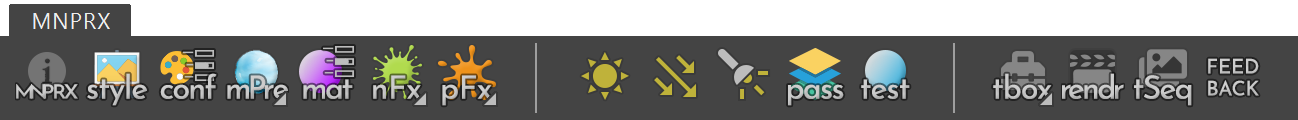
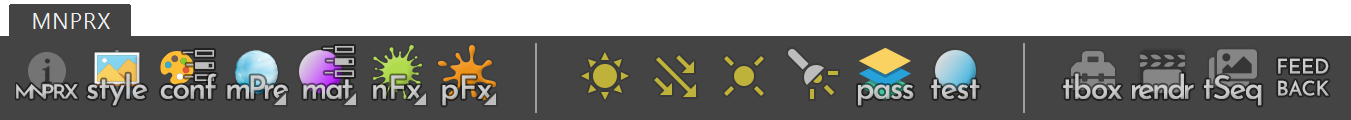
Updating Docs with new features

Changed region(s): [[0.4314, 0.4, 0.9861, 0.875], [0.0, 0.35, 0.4006, 0.875], [0.0, 0.05, 0.1233, 0.3]]

diff --git a/_mnprdocs/material-presets.md b/_mnprdocs/material-presets.md
@@ -16,14 +16,14 @@ _Material presets_ allow artists to easily create and load stylized materials wi
 	<figcaption>The Material presets window will look similar to this, depending on which presets you have available.</figcaption>
 </figure>
 
-A material preset contains all the available attributes found in the _[mnpr_uber](../uber)_, _[mnpr_cutout](/projects/cutout)_, or the _[mnpr_geoproxy](../proxy)_ materials, together with a small thumbnail of the object assigned to it.
+A material preset contains all the available attributes found in the _[mnpr_uber](../uber)_, _[mnpr_cutout](/projects/cutout#cutout-material)_, or the _[mnpr_geoproxy](../proxy)_ materials, together with a small thumbnail of the object assigned to it.
 
 
 ## Creating presets
 You can save as many presets as you want and these can be created at the top of the _Material presets_ window.
 1. Name the current preset as desired in the highlighted text field
-1. Click on the `Save` button on the right
-1. A new preset will appear in the list with all attributes found in the _[mnpr_uber](../uber)_, _[mnpr_cutout](/projects/cutout)_, or the _[mnpr_geoproxy](../proxy)_ materials.
+1. Press `Enter` or click on the `Save` button on the right
+1. A new preset will appear in the list with all attributes found in the _[mnpr_uber](../uber)_, _[mnpr_cutout](/projects/cutout#cutout-material)_, or the _[mnpr_geoproxy](../proxy)_ materials.
 
 When you save a preset with the same name as an existing one, the previously existing preset will be overwritten.
 {: .notice--warning}
@@ -33,11 +33,14 @@ When you save a preset with the same name as an existing one, the previously exi
 Presets can be loaded at any time.
 1. Select the objects which you would like assign the material to
 1. Select the preset that you would like to load
-1. Click on the `Load` button at the bottom left
+1. Double click on the preset icon or click on the `Load` button at the bottom left
 
-Use the `Filter presets` field to filter material presets by name, and the drop-down on the right to filter by material type: `Uber`, `Cutout`, or `All` (no filter). By default, only materials corresponding to the current style are shown. 
+Be aware that loading the preset will load the material attributes on all objects that share the same material that the tool is replacing. To avoid this behavior, check the `Create new material` option within the loading options.
+{: .notice--warning}
 
-The loading options give you more refined control over the loading process. These comprise the following:
+{% include aio-hint.html %} Use the **Filter presets** field to filter material presets by name, and the drop-down on the right to filter by material type: `Uber`, `Cutout`, or `All` (no filter). By default, only materials corresponding to the current style are shown.
+
+Above the _Filter presets_ section, the loading options give you more refined control over the loading process. These comprise the following:
 
 * **Create new material** - will force the creation of a new material, no matter what previous material the object had. By default, if the selected object already has an MNPRX material, the existing material will be modified with the attributes of the preset.
 * **Load textures** - this will load the textures of the selected preset. If you want to keep the current textures, but wish to still import the other material attributes of the preset, uncheck this box.

diff --git a/_mnprdocs/shelf.md b/_mnprdocs/shelf.md
@@ -21,17 +21,17 @@ The art-direction tools can be found in the left side of the shelf, ordered from
 1. **style** - opens the _Stylization Presets_ to load/save predefined styles and their parameters [[docs](../style-presets)].
 1. **conf** - selects the configuration node to change each style attribute [[docs](../config)].
 1. **mPre** - opens the _Material Presets_ to load/save predefined MNPRX materials and their parameters [[docs](../material-presets)].  
-{% include aio-new.html %} `Right click -> Update ShaderFX materials` will automatically update all _ShaderFX_ materials to the newest version.
+`Right click -> Update ShaderFX materials` will automatically update all _ShaderFX_ materials to the newest version.
 1. **mat** - selects the material of currently selected objects e.g., the [_mnpr_uber_](../uber) or [_mnpr_geoproxy_](../proxy) materials.  
-{% include aio-new.html %} `Double click` refreshes the _Attribute Editor_ of the material, forcing the _ShaderFX_ framework to show all attributes.  
-{% include aio-new.html %} `Right click -> Select all objects with material` will select all objects that share the same material.
+`Double click` refreshes the _Attribute Editor_ of the material, forcing the _ShaderFX_ framework to show all attributes.  
+`Right click -> Select all objects with material` will select all objects that share the same material.
 1. **nFx** - opens the _NoiseFX_ window that lets you control effects procedurally on MNPR materials [[docs](../noiseFX)].
 1. **pFx** - opens the _PaintFX_ window that lets you paint each effect directly on your 3D models [[docs](../paintFX)].
 
 
 ## Lighting/Testing
 The lighting and testing tools allow to easily create the supported lights within MNPRX and to troubleshoot if things are not looking quite right.
-1. **Supported lights** - shelf icons for the three different supported lights: ambient, directional and spot light.
+1. {% include aio-new.html %} **Supported lights** - shelf icons for the four different supported lights: ambient, directional, point (no shadow maps) and spot light.
 1. **pass** - opens the _Operations breakdown_ window, which lets you toggle on/off each stylization pass and troubleshoot the inner workings of the stylization itself [[docs](../op-breakdown)].
 1. **test** - creates a simple default test scene with default lighting.
 
@@ -40,6 +40,6 @@ The lighting and testing tools allow to easily create the supported lights withi
 1. **tbox** - opens the _MNPRX Toolbox_ window, containing handy tools to work with MNPRX in production [[docs](../toolbox)].
 1. **rendr** - opens up the viewport renderer, which quickly allows to save screenshots or playblasts [[docs](../rendering#rendr)].
 1. **tSeq** - opens up the target sequence renderer, which allows to render all different passes for production [[docs](../rendering#tSeq)].
-1. {% include aio-new.html %} **FEEDBACK** - opens the browser with the [MNPRX community](https://community.artineering.io/topics).
+1. **FEEDBACK** - opens the browser with the [MNPRX community](https://community.artineering.io/topics).
 
 {% include toc-side %}

diff --git a/_mnprdocs/style-presets.md b/_mnprdocs/style-presets.md
@@ -21,7 +21,7 @@ A stylization preset contains all the available attributes found in the [style c
 ## Saving presets
 You can save as many presets as you want and these can be created at the top of the _Stylization presets_ window.
 1. Name the current preset as desired in the highlighted text field
-2. Click on the `Save` button on the top right
+2. Press `Enter` or click on the `Save` button on the right
 3. A new preset will appear in the list with all attributes found in the [style configuration node](../config).
 
 When you save a preset with the same name as an existing one, the previously existing preset will be overwritten.
@@ -31,16 +31,16 @@ When you save a preset with the same name as an existing one, the previously exi
 ## Loading presets
 Presets can be loaded into the current scene at any time.
 1. Select the preset that you would like to load
-2. Click on the `Load` button at the bottom left
+2. Double click on the preset icon or click on the `Load` button at the bottom left
 
-Use the `Filter presets` field to filter presets by name, and the drop-down on the right to filter by style. 
+{% include aio-hint.html %} Use the **Filter presets** field to filter presets by name, and the drop-down on the right to filter by style.
 
-The following options give you more refined control over the loading process:
+Above the _Filter presets_ section, the loading options give you more refined control over the loading process:
 
 * **Load world scale** - Whether to load the _world scale_ setting from the style. By default this is unchecked and the current world scale will be preserved when loading the style.
-* **Load quality** -  Whether to load the _quality_ setting from the style. If this is unchecked, the current quality setting will be preserved when loading the style. 
-* **Load attributes** - Whether to load the main attributes of the style preset. This is on by default, but you can uncheck this option if you want to load only the substrates. 
-* **Load substrates** - Whether to load the substrate-related settings. If this is unchecked, the current substrate settings will be preserved when loading the style. 
+* **Load quality** -  Whether to load the _quality_ setting from the style. If this is unchecked, the current quality setting will be preserved when loading the style.
+* **Load attributes** - Whether to load the main attributes of the style preset. This is on by default, but you can uncheck this option if you want to load only the substrates.
+* **Load substrates** - Whether to load the substrate-related settings. If this is unchecked, the current substrate settings will be preserved when loading the style.
 
 
 ## Deleting presets

diff --git a/_mnprdocs/index.md b/_mnprdocs/index.md
@@ -30,35 +30,35 @@ As MNPRX continues to grow, it has become indispensable to document all its func
 <div class="doc-element" markdown="1">
 ## Basics
 ### [MNPRX Shelf](shelf) {% include aio-new.html %}
-### [Art-direction](art-direction) {% include aio-new.html %}
+### [Art-direction](art-direction)
 ### [Rendering](rendering)
 </div>
 
 <div class="doc-element" markdown="1">
 ## Styles
-### [Presets](style-presets)
-### [Configuration](config) {% include aio-new.html %}
+### [Presets](style-presets) {% include aio-new.html %}
+### [Configuration](config)
 ### [Import/Export](import-export)
 </div>
 
 <div class="doc-element" markdown="1">
 ## Materials
-### [Presets](material-presets)
-### [Uber Material](uber)
+### [Presets](material-presets) {% include aio-new.html %}
+### [Uber Material](uber) {% include aio-new.html %}
 ### [Proxies](proxy)
 </div>
 
 <div class="doc-element" markdown="1">
 ## Art-direction
-### [NoiseFX](noisefx) {% include aio-new.html %}
-### [PaintFX](paintfx) {% include aio-new.html %}
+### [NoiseFX](noisefx)
+### [PaintFX](paintfx)
 ### [MNPRX Toolbox](toolbox) {% include aio-new.html %}
 </div>
 
 <div class="doc-element" markdown="1">
 ## Stylizations
 ### [Watercolor](/projects/watercolor) {% include aio-wip.html %}
-### [Cutout](/projects/cutout) {% include aio-new.html %}
+### [Cutout](/projects/cutout)
 ### [Viewport+](/projects/viewport+) {% include aio-wip.html %}
 </div>
 
@@ -71,7 +71,7 @@ As MNPRX continues to grow, it has become indispensable to document all its func
 <div class="doc-element" markdown="1">
 ## Examples
 ### [Stylizing Scenes](stylizing-scene) {% include aio-new.html %}
-### [Rendering Scenes](rendering-scene) {% include aio-new.html %}
+### [Rendering Scenes](rendering-scene)
 </div>
 
 </div>

diff --git a/_mnprdocs/toolbox.md b/_mnprdocs/toolbox.md
@@ -12,12 +12,22 @@ The _MNPRX toolbox_ is a handy collection of tools to use MNPRX in production. T
 {: .top2}
 
 <figure class="align-center">
-	<img src="/images/MNPRX/tbox.png" alt="MNPRX Toolbox" style="width:300px;">
+	<img src="/images/MNPRX/tbox.png" alt="MNPRX Toolbox" style="max-width:100%;">
 	<figcaption>The MNPRX Toolbox contains a growing set of useful tools for production.</figcaption>
 </figure>
 
 ## Import/export MNPRX stylization
 Importing/exporting the stylization is crucial in professional production workflows and can be done with the _Import/Export Tool_. We go into detail about this tool in the [**Import/Export Tool documentation**](../import-export/).
+
+## Bulk Attribute {% include aio-new.html %}
+Only available for _Indie_ and _Studio_ licenses, the bulk attribute allows to easily change _MNPRX_ settings in bulk (attributes in the future, as well). To open the tool window, click on the `Bulk Attribute` icon in the _MNPRX Toolbox_.
+
+<figure class="align-center">
+	<img src="/images/MNPRX/bulkAttribute.png" alt="Bulk attribute tool" style="max-width:100%;">
+	<figcaption>The bulk attribute tool contains the active settings of selected MNPRX materials.</figcaption>
+</figure>
+
+The settings that appear on the _Bulk Attribute_ tool depend on what materials you have selected in the scene. By default, the tool will automatically refresh when the selection changes to show the attributes/settings of the current selection. You can disable this behaviour by unchecking the `Auto-refresh` option within the tool and refreshing manually through the `Refresh` button.
 
 ## Delete PaintFX
 Deleting _PaintFX_ can be useful in a various situations

diff --git a/_mnprdocs/uber.md b/_mnprdocs/uber.md
@@ -337,7 +337,7 @@ _Highlight Transparency_ defines the transparency of the highlight.
 
 ------------------
 
-### Rim light / Rim light opp. 
+### Rim light / Rim light opp. {% include aio-new.html %}
 The _Rim Light_ and _Rim light opp._ settings control the appearance of the rim lighting effect around the silhouette of objects, on areas facing respectively away and towards the light.
 The settings described below are the same for both rim light (facing away) and rim light opposite (facing towards the light).
 

diff --git a/_mnprdocs/config.md b/_mnprdocs/config.md
@@ -82,7 +82,7 @@ The units work as meter/cm, so keep the  _World Scale_ in mind when setting up t
 
 -----------
 
-## Ambient Occlusion {% include aio-new.html %}
+## Ambient Occlusion
 
 Ambient Occlusion (AO) darkens the image in areas that are hard to reach for the ambient light due to the local shape of the geometry (e.g. concavities, crevices, holes). Note that this effect depends only on the geometry (and the viewpoint, to a lesser extent), and not on the lights present in the scene.
 
